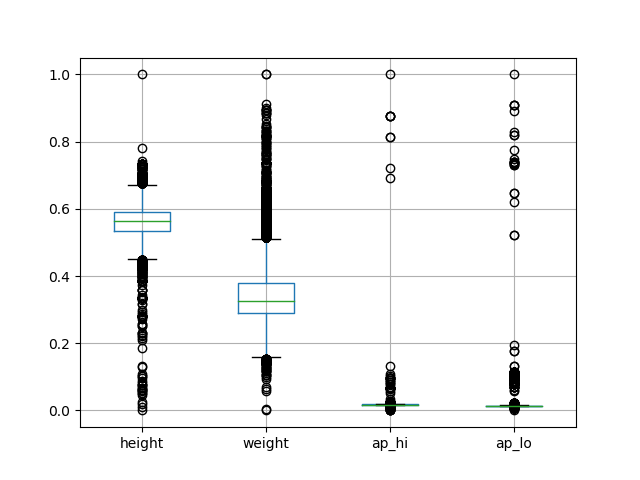
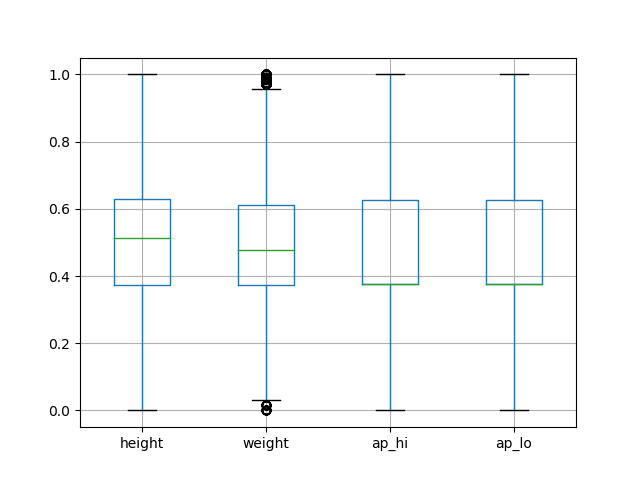
add functions to remove outliers

diff --git a/preprocessing/data_preprocessing.py b/preprocessing/data_preprocessing.py
@@ -1,6 +1,8 @@
 from sklearn.model_selection import train_test_split
 import pandas as pd
 from sklearn.preprocessing import KBinsDiscretizer
+import numpy as np
+from scipy import stats
 
 class Data:
     def __init__(self, data, target):
@@ -26,6 +28,29 @@ class Data:
     def remove_null_values(self):
         print("Found {} null values within dataset.".format(self.data.isnull().sum().sum()))
         self.data.dropna(axis=0)
+
+    # Get outliers
+    def get_outliers(self, cols):
+        df2 = pd.DataFrame(self.data, columns=cols)
+        # th = 3
+        
+        # z_score = np.abs(stats.zscore(df2))
+        # return np.where(z_score > th)[0]
+        q1 = df2.quantile(0.25)
+        q3 = df2.quantile(0.75)
+        iqr = q3 - q1
+
+        outliers = ((df2 < (q1 - 1.5 * iqr)) | (df2 > (q3 + 1.5 * iqr)))
+        df2 = df2[~outliers.any(axis=1)]
+        return df2.index.values.tolist()
+
+
+    # Remove outliers from the dataset
+    def remove_outliers(self, cols):
+        # get index values of rows that contain outliers
+        indices = self.get_outliers(cols)
+        self.data = self.data.loc[indices, :]
+        print(self.data.shape)
 
 
     # Normalise data to have consistent ranges

diff --git a/main.py b/main.py
@@ -25,17 +25,22 @@ def main():
     plt.stack_plot(d1_data.data, 'sex', 'target')
     plt.stack_plot(d2_data.data, 'gender', 'cardio')
 
-
     # Remove any null values from the data
     d1_data.remove_null_values()
     d2_data.remove_null_values()
+
+    d1_data.remove_outliers(['trestbps', 'chol', 'thalach', 'oldpeak'])
+    d2_data.remove_outliers(['height', 'weight', 'ap_hi', 'ap_lo'])
+
+    plt.rad_plot(d1_data.data, ['trestbps', 'chol', 'thalach', 'oldpeak', 'target'], 'target')
+    plt.rad_plot(d2_data.data, ['height', 'weight', 'ap_hi', 'ap_lo', 'cardio'], 'cardio')
 
     d1_data.normalise()
     d2_data.normalise()
 
     plt.box_plot(d1_data.data, ['trestbps', 'chol', 'thalach', 'oldpeak'], 'target')
-    plt.iso_forest(d2_data.data, 'ap_hi')
-
+    plt.box_plot(d2_data.data, ['height', 'weight', 'ap_hi', 'ap_lo'], 'cardio')
+    
     # Discretize continuous data into categories
     #d1_data.discretize(['trestbps', 'chol', 'thalach', 'oldpeak'], 5)
     #d2_data.discretize(['age', 'height', 'weight', 'ap_hi', 'ap_lo'], 5)

diff --git a/plotting.py b/plotting.py
@@ -42,13 +42,17 @@ class Plot:
 
 
     # Identiy outliers with Isolation Forest
-    def iso_forest(self, df, cols):
-        th = 3
-        z_score = np.abs(stats.zscore(df))
+    def rad_plot(self, df, cols, target_name):
+        df2 = pd.DataFrame(df, columns=cols)
         
-        _, ax = plt.subplots()
-        ax.matshow(z_score)
-        plt.savefig(os.path.join('plots', f'iso_forest_{self.hist_number}.png'), format='png')
+        # Change 0 and 1 values to negative and positive for clarity
+        target = {0: 'Negative', 1: 'Positive'}
+        df2[target_name] = df2[target_name].map(target)
+
+        plt.figure()
+        pd.plotting.radviz(df2, target_name, color=['green', 'red'])
+        plt.savefig(os.path.join('plots', f'rad_{self.hist_number}.png'), format='png')
+        self.hist_number += 1
         plt.close()
 
     # Plot pearson correlation
